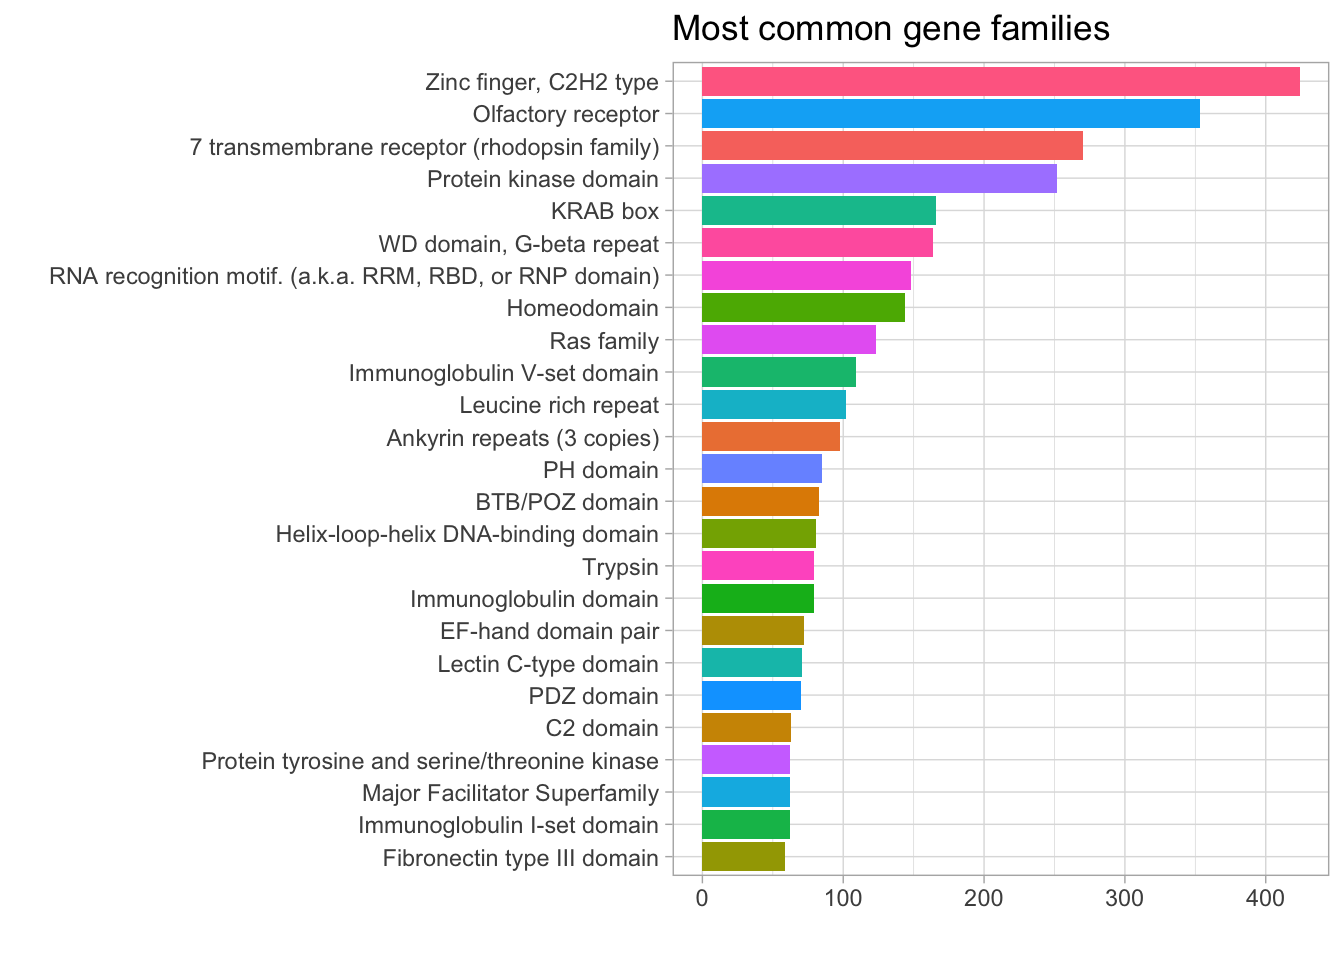
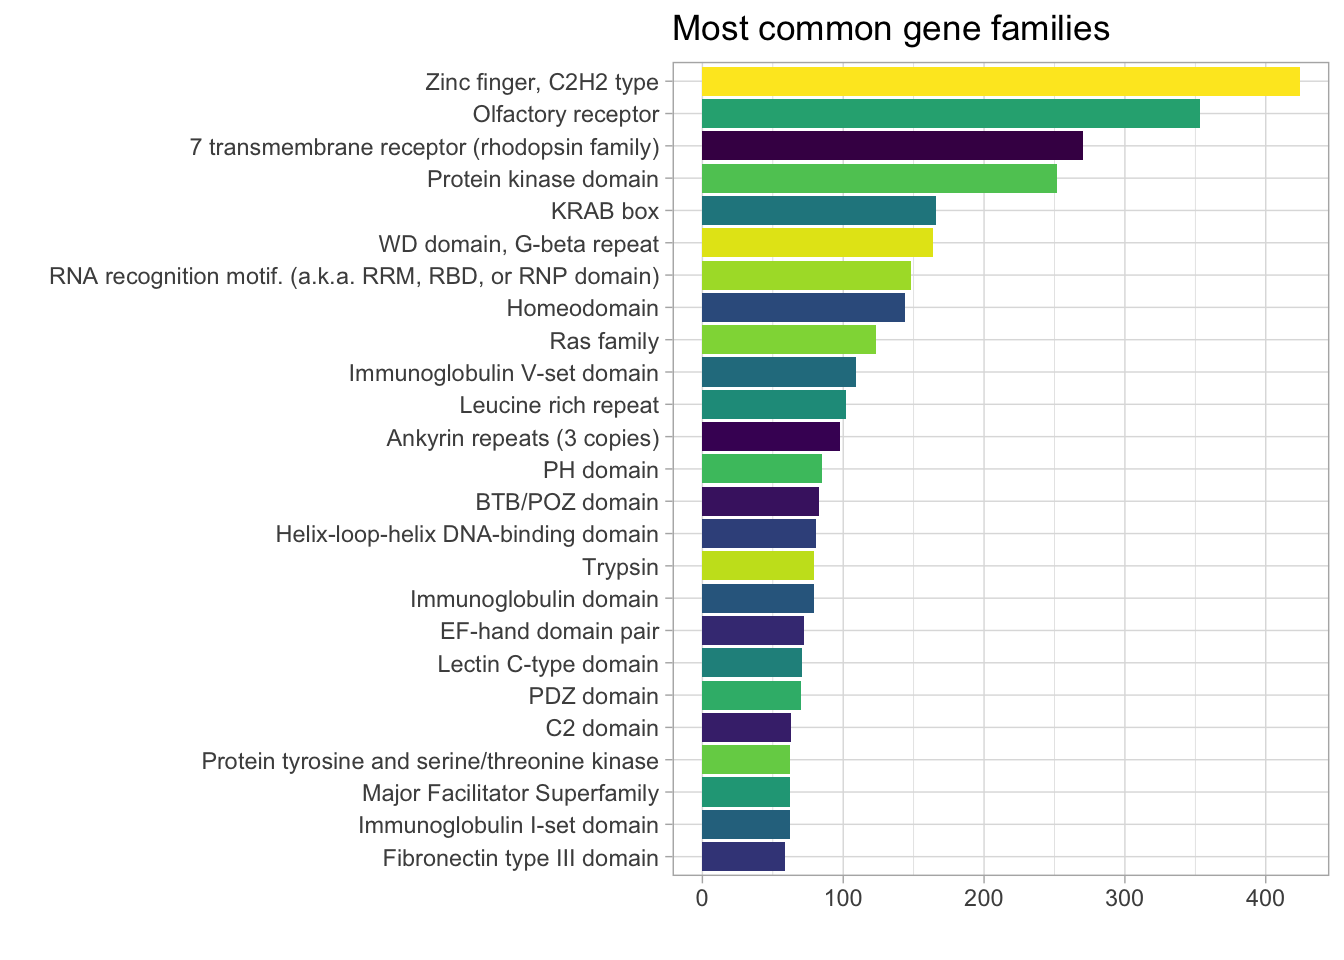
added gene families plot

Changed region(s): [[0.5, 0.0625, 0.9688, 0.9062]]

diff --git a/content/post/2021-10-24_hsapiens/index.html b/content/post/2021-10-24_hsapiens/index.html
@@ -264,7 +264,9 @@ genes_df2 %&gt;%
 <script type="application/json" data-for="htmlwidget-2">{"x":{"filter":"none","vertical":false,"data":[["1","2","3","4","5","6","7","8","9","10","11","12","13","14","15","16","17","18","19","20","21","22","23","24","25","26","27","28","29","30"],["chr19","chr8","chr20","chr18","chr1","chrX","chr3","chr14","chr15","chr11","chr15","chr15","chr15","chr15","chr15","chr15","chr15","chr15","chr15","chr15","chr15","chr15","chr15","chr15","chr15","chr15","chr15","chr15","chr15","chr15"],[58858172,18248755,43248163,25530930,243651535,49217763,101395274,71050957,72102894,89867818,25296623,25299356,25302006,25304684,25307479,25315578,25319260,25321075,25322197,25324204,25326433,25327914,25330531,25332808,25335059,25336932,25339183,25342809,25417782,25344645],[58874214,18258723,43280376,25757445,244006886,49233491,101398057,71067384,72110597,89925779,25296719,25313030,25318349,25304781,25307575,25315674,25319363,25321168,25322290,25325381,25326526,25328007,25330624,25334043,25335157,25337025,25339276,25342902,25417863,25346814],[16043,9969,32214,226516,355352,15729,2784,16428,7704,57962,97,13675,16344,98,97,97,104,94,94,1178,94,94,94,1236,99,94,94,94,82,2170],["-","+","-","-","-","+","+","-","+","+","+","+","+","+","+","+","+","+","+","+","+","+","+","+","+","+","+","+","+","+"],["1","10","100","1000","10000","100008586","100009676","10001","10002","10003","100033413","100033414","100033415","100033416","100033417","100033420","100033422","100033423","100033424","100033425","100033427","100033428","100033430","100033431","100033433","100033434","100033435","100033436","100033437","100033438"],["alpha-1-B glycoprotein","N-acetyltransferase 2","adenosine deaminase","cadherin 2","AKT serine/threonine kinase 3","G antigen 12F","ZBTB11 antisense RNA 1","mediator complex subunit 6","nuclear receptor subfamily 2 group E member 3","N-acetylated alpha-linked acidic dipeptidase 2","small nucleolar RNA, C/D box 116-1","small nucleolar RNA, C/D box 116-2","small nucleolar RNA, C/D box 116-3","small nucleolar RNA, C/D box 116-4","small nucleolar RNA, C/D box 116-5","small nucleolar RNA, C/D box 116-8","small nucleolar RNA, C/D box 116-10","small nucleolar RNA, C/D box 116-11","small nucleolar RNA, C/D box 116-12","small nucleolar RNA, C/D box 116-13","small nucleolar RNA, C/D box 116-15","small nucleolar RNA, C/D box 116-16","small nucleolar RNA, C/D box 116-18","small nucleolar RNA, C/D box 116-20","small nucleolar RNA, C/D box 116-22","small nucleolar RNA, C/D box 116-23","small nucleolar RNA, C/D box 116-24","small nucleolar RNA, C/D box 116-25","small nucleolar RNA, C/D box 115-2","small nucleolar RNA, C/D box 116-26"],["PF13895","PF00797","PF00962","PF01049","PF00433","PF05831",null,"PF04934","PF00105","PF02225",null,null,null,null,null,null,null,null,null,null,null,null,null,null,null,null,null,null,null,null]],"container":"<table class=\"display\">\n  <thead>\n    <tr>\n      <th> <\/th>\n      <th>seqnames<\/th>\n      <th>start<\/th>\n      <th>end<\/th>\n      <th>width<\/th>\n      <th>strand<\/th>\n      <th>gene_id<\/th>\n      <th>gene_name<\/th>\n      <th>pfam_id<\/th>\n    <\/tr>\n  <\/thead>\n<\/table>","options":{"columnDefs":[{"className":"dt-right","targets":[2,3,4]},{"orderable":false,"targets":0}],"order":[],"autoWidth":false,"orderClasses":false}},"evals":[],"jsHooks":[]}</script>
 <p>I’d like to convert the protein family column from a PFAM code_id to a recognizable category (e.g., transcription factor) and plot the most common categories. I have not figured out how to do this yet but I did consult Google and found the <code>PFAM.db</code> package, which I’m looking into. The documentation says that it works with the <code>AnnotationDbi::select()</code> function.</p>
 <p>The <code>AnnotationDbi</code> package provides an interface to connect with SQLite-based annotation packages. <code>AnnotationDb</code> is the virtual base class for all annotation packages. It contain a database connection and is meant to be the parent for a set of classes in the Bioconductor annotation packages.</p>
-<pre class="r"><code>library(PFAM.db)
+<pre class="r"><code>library(RColorBrewer)
+mypalette&lt;-brewer.pal(25,&quot;Greens&quot;)
+library(PFAM.db)
 
 x &lt;- PFAMDE # Maps from PFAM id to description
 class(x) #class is AnnDbBimap</code></pre>
@@ -291,11 +293,12 @@ PFAM_annotated_genes %&gt;%
   theme(legend.position = &#39;none&#39;) +
   labs(title = &quot;Most common gene families&quot;,
        y = &quot;&quot;,
-       x = &quot;&quot;)</code></pre>
+       x = &quot;&quot;) +
+  scale_fill_viridis_d()</code></pre>
 <p><img src="{{< blogdown/postref >}}index_files/figure-html/unnamed-chunk-8-1.png" width="672" /></p>
 <div id="annotation-hub" class="section level3">
 <h3>Annotation hub</h3>
-<p>The Annotation hub is a meta resource for accessing annotation databases. It can be challenging to navigate the Annotation hub if you don’t know what you’re looking for. In the following example, I connect to the hub and then use <code>subset</code> to filter for human genome annotations. I then show a couple of ways to explore the content providers, data types and</p>
+<p>The Annotation hub is a meta resource for accessing annotation databases. It can be challenging to navigate the Annotation hub if you don’t know what you’re looking for. In the following example, I connect to the hub and then use <code>subset</code> to filter for human genome annotations. I then show a couple of ways to explore the annotation resources, filter the available content and extract data.</p>
 <pre class="r"><code>ah &lt;- AnnotationHub()
 ah &lt;- subset(ah, species == &quot;Homo sapiens&quot;)
 
